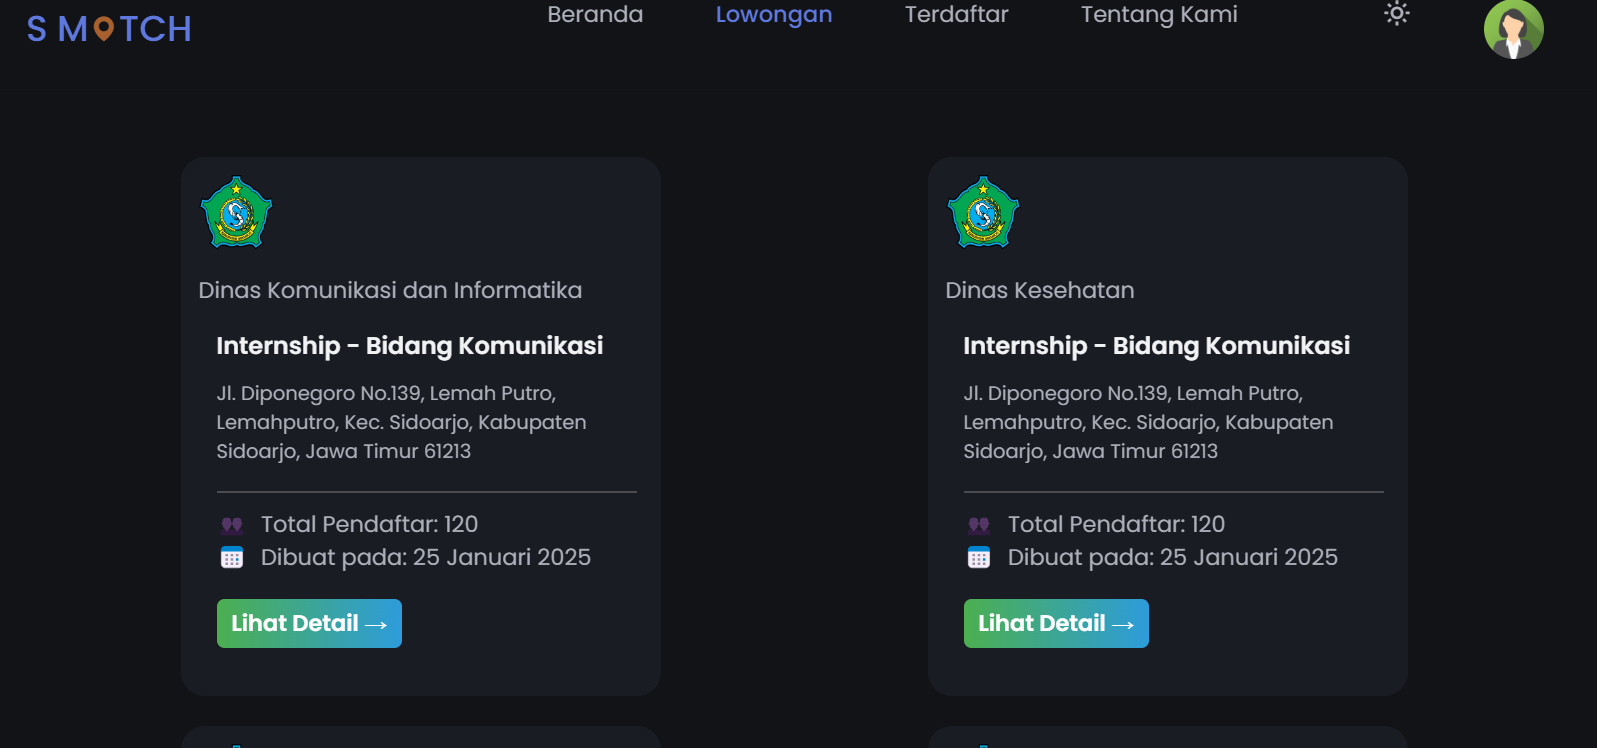
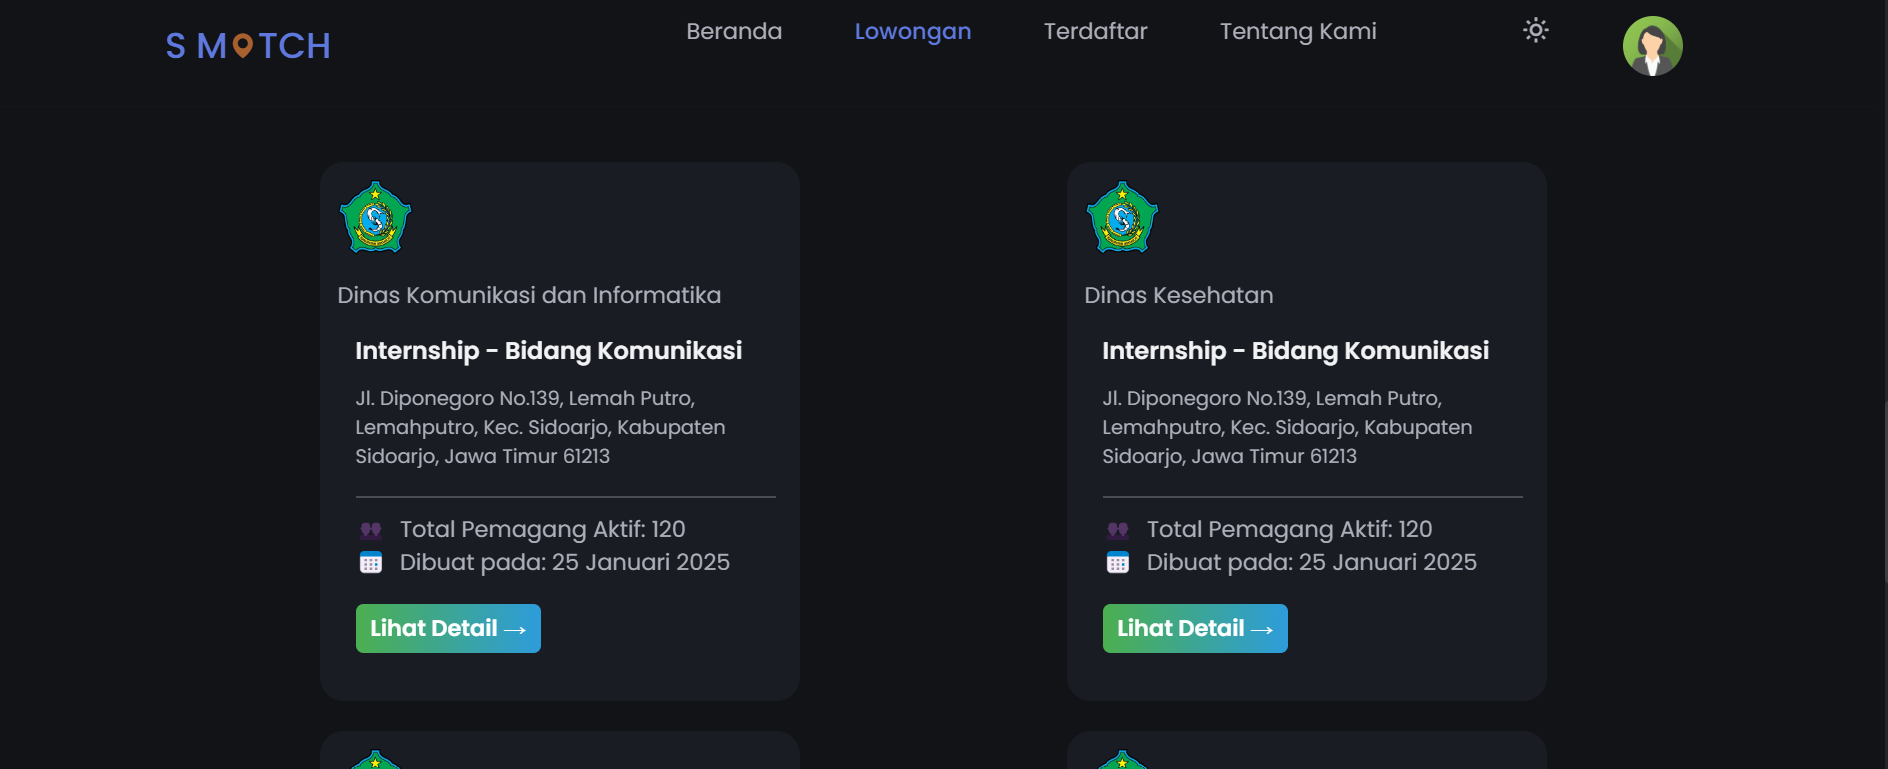
edit by hevia

diff --git a/web/lowongan.php b/web/lowongan.php
@@ -248,7 +248,7 @@
                                 <p class="popular__description">Jl. Diponegoro No.139, Lemah Putro, Lemahputro, Kec. Sidoarjo, Kabupaten Sidoarjo, Jawa Timur 61213</p>
                                 <hr style="border: 1px solid #ddd; margin: 10px 0;">
                                 <p class="popular__details">
-                                    <span class="icon" style="margin-right: 5px;">&#128101;</span> Total Pendaftar: <span class="total-pendaftar">120</span><br>
+                                    <span class="icon" style="margin-right: 5px;">&#128101;</span> Total Pemagang Aktif: <span class="total-pendaftar">120</span><br>
                                     <span class="icon" style="margin-right: 5px;">&#128197;</span> Dibuat pada: <span class="creation-date">25 Januari 2025</span>
                                 </p>
                                 <a href="detaillow.php"><button class="details-button">Lihat Detail →</button></a>
@@ -264,7 +264,7 @@
                                 <p class="popular__description">Jl. Diponegoro No.139, Lemah Putro, Lemahputro, Kec. Sidoarjo, Kabupaten Sidoarjo, Jawa Timur 61213</p>
                                 <hr style="border: 1px solid #ddd; margin: 10px 0;">
                                 <p class="popular__details">
-                                    <span class="icon" style="margin-right: 5px;">&#128101;</span> Total Pendaftar: <span class="total-pendaftar">120</span><br>
+                                    <span class="icon" style="margin-right: 5px;">&#128101;</span> Total Pemagang Aktif: <span class="total-pendaftar">120</span><br>
                                     <span class="icon" style="margin-right: 5px;">&#128197;</span> Dibuat pada: <span class="creation-date">25 Januari 2025</span>
                                 </p>
                                 <a href="detaillow.php"><button class="details-button">Lihat Detail →</button></a>
@@ -280,7 +280,7 @@
                                 <p class="popular__description">Jl. Diponegoro No.139, Lemah Putro, Lemahputro, Kec. Sidoarjo, Kabupaten Sidoarjo, Jawa Timur 61213</p>
                                 <hr style="border: 1px solid #ddd; margin: 10px 0;">
                                 <p class="popular__details">
-                                    <span class="icon" style="margin-right: 5px;">&#128101;</span> Total Pendaftar: <span class="total-pendaftar">120</span><br>
+                                    <span class="icon" style="margin-right: 5px;">&#128101;</span> Total Pemagang Aktif: <span class="total-pendaftar">120</span><br>
                                     <span class="icon" style="margin-right: 5px;">&#128197;</span> Dibuat pada: <span class="creation-date">25 Januari 2025</span>
                                 </p>
                                 <a href="detaillow.php"><button class="details-button">Lihat Detail →</button></a>
@@ -295,7 +295,7 @@
                                 <p class="popular__description">Jl. Diponegoro No.139, Lemah Putro, Lemahputro, Kec. Sidoarjo, Kabupaten Sidoarjo, Jawa Timur 61213</p>
                                 <hr style="border: 1px solid #ddd; margin: 10px 0;">
                                 <p class="popular__details">
-                                    <span class="icon" style="margin-right: 5px;">&#128101;</span> Total Pendaftar: <span class="total-pendaftar">120</span><br>
+                                    <span class="icon" style="margin-right: 5px;">&#128101;</span> Total Pemagang Aktif: <span class="total-pendaftar">120</span><br>
                                     <span class="icon" style="margin-right: 5px;">&#128197;</span> Dibuat pada: <span class="creation-date">25 Januari 2025</span>
                                 </p>
                                 <a href="detaillow.php"><button class="details-button">Lihat Detail →</button></a>
@@ -310,7 +310,7 @@
                                 <p class="popular__description">Jl. Diponegoro No.139, Lemah Putro, Lemahputro, Kec. Sidoarjo, Kabupaten Sidoarjo, Jawa Timur 61213</p>
                                 <hr style="border: 1px solid #ddd; margin: 10px 0;">
                                 <p class="popular__details">
-                                    <span class="icon" style="margin-right: 5px;">&#128101;</span> Total Pendaftar: <span class="total-pendaftar">120</span><br>
+                                    <span class="icon" style="margin-right: 5px;">&#128101;</span> Total Pemagang Aktif: <span class="total-pendaftar">120</span><br>
                                     <span class="icon" style="margin-right: 5px;">&#128197;</span> Dibuat pada: <span class="creation-date">25 Januari 2025</span>
                                 </p>
                                 <a href="detaillow.php"><button class="details-button">Lihat Detail →</button></a>
@@ -325,7 +325,7 @@
                                 <p class="popular__description">Jl. Diponegoro No.139, Lemah Putro, Lemahputro, Kec. Sidoarjo, Kabupaten Sidoarjo, Jawa Timur 61213</p>
                                 <hr style="border: 1px solid #ddd; margin: 10px 0;">
                                 <p class="popular__details">
-                                    <span class="icon" style="margin-right: 5px;">&#128101;</span> Total Pendaftar: <span class="total-pendaftar">120</span><br>
+                                    <span class="icon" style="margin-right: 5px;">&#128101;</span> Total Pemagang Aktif: <span class="total-pendaftar">120</span><br>
                                     <span class="icon" style="margin-right: 5px;">&#128197;</span> Dibuat pada: <span class="creation-date">25 Januari 2025</span>
                                 </p>
                                 <a href="detaillow.php"><button class="details-button">Lihat Detail →</button></a>
@@ -341,7 +341,7 @@
                                 <p class="popular__description">Jl. Diponegoro No.139, Lemah Putro, Lemahputro, Kec. Sidoarjo, Kabupaten Sidoarjo, Jawa Timur 61213</p>
                                 <hr style="border: 1px solid #ddd; margin: 10px 0;">
                                 <p class="popular__details">
-                                    <span class="icon" style="margin-right: 5px;">&#128101;</span> Total Pendaftar: <span class="total-pendaftar">120</span><br>
+                                    <span class="icon" style="margin-right: 5px;">&#128101;</span> Total Pemagang Aktif: <span class="total-pendaftar">120</span><br>
                                     <span class="icon" style="margin-right: 5px;">&#128197;</span> Dibuat pada: <span class="creation-date">25 Januari 2025</span>
                                 </p>
                                 <a href="detaillow.php"><button class="details-button">Lihat Detail →</button></a>
@@ -355,7 +355,7 @@
                                 <h3 class="popular__title">Internship - Bidang Komunikasi Informatika</h3>
                                 <p class="popular__description">Jl. Diponegoro No.139, Lemah Putro, Lemahputro, Kec. Sidoarjo...</p>
                                 <p class="popular__details">
-                                    <span class="icon" style="margin-right: 5px;">&#128101;</span> Total Pendaftar: <span class="total-pendaftar">120</span><br>
+                                    <span class="icon" style="margin-right: 5px;">&#128101;</span> Total Pemagang Aktif: <span class="total-pendaftar">120</span><br>
                                     <span class="icon" style="margin-right: 5px;">&#128197;</span> Dibuat pada: <span class="creation-date">25 Januari 2025</span>
                                 </p>
                                 <a href="detaillow.php"><button class="details-button">Lihat Detail →</button></a>

diff --git a/web/tentang.php b/web/tentang.php
@@ -59,7 +59,7 @@
                                     <h3 class="contact__card-title">Cara Daftar</h3>
                                 </div>
                             </div>
-                            <button class="button contact__card-button" data-bs-toggle="modal" data-bs-target="#tutorialModal" data-title="Cara Daftar" data-steps='[{"step":"Buka halaman detail lowongan yang ingin dilamar.", "img":"../assets/img/tentang/daftar1.png"}, {"step":"Isi form pendaftaran.", "img":"../assets/img/tentang/daftar2.png"}, {"step":"Klik tombol Kirim."}, {"step":"Tunggu konfirmasi dari admin instansi terkait seleksi kriteria pendaftaran."}]'>Lihat</button>
+                            <button class="button contact__card-button" data-bs-toggle="modal" data-bs-target="#tutorialModal" data-title="Cara Daftar" data-steps='[{"step":"Buka halaman detail lowongan yang ingin dilamar.", "img":"../assets/img/tentang/daftar1.png"}, {"step":"Isi form pendaftaran.", "img":"../assets/img/tentang/daftar2.png"}, {"step":"Klik tombol Kirim.", "img":"../assets/img/tentang/daftar3.png"}, {"step":"Tunggu konfirmasi dari admin instansi terkait seleksi kriteria pendaftaran."}]'>Lihat</button>
                         </div>
 
                         <!-- Cek Status -->
@@ -70,7 +70,7 @@
                                     <h3 class="contact__card-title">Cek Status</h3>
                                 </div>
                             </div>
-                            <button class="button contact__card-button" data-bs-toggle="modal" data-bs-target="#tutorialModal" data-title="Cek Status" data-steps='[{"step":"Klik bagian foto profil pada navbar.", "img":"../assets/img/tentang/status1.png"}, {"step":"Masuk ke halaman dashboard user.", "img":"../assets/img/tentang/status2.jpg"}, {"step":"Masuk ke halaman dashboard user.", "img":"../assets/img/tentang/status3.jpg"}]'>Lihat</button>
+                            <button class="button contact__card-button" data-bs-toggle="modal" data-bs-target="#tutorialModal" data-title="Cek Status" data-steps='[{"step":"Klik bagian foto profil pada navbar.", "img":"../assets/img/tentang/status1.png"}, {"step":"Masuk ke menu Status Pengajuan.", "img":"../assets/img/tentang/status2.jpg"}, {"step":"Masuk ke halaman dashboard user.", "img":"../assets/img/tentang/status3.jpg"}]'>Lihat</button>
                         </div>
 
                         <!-- Unggah Logbook -->

diff --git a/user/dashboard.php b/user/dashboard.php
@@ -15,7 +15,7 @@
                         <h5 class="card-title">Unggah Logbook</h5>
                         <h2 class="card-text text-primary">15</h2>
                         <p class="text-muted">Logbook Terunggah</p>
-                        <a href="logbook_unggah.php" class="btn btn-primary mt-3 detail">View Details</a>
+                        <a href="kegiatan_aktif.php" class="btn btn-primary mt-3 detail">View Details</a>
                     </div>
                 </div>
             </div>

diff --git a/login.php b/login.php
@@ -8,6 +8,9 @@
     <!-- <link rel="stylesheet" href="css/style.css"> -->
     <link rel="stylesheet" href="assets/css/login.css">
     <style> 
+        body {
+            background-color:#e2ecf4 ;
+        }
         p {
             padding-top: 10px;
             font-size: 12px;
